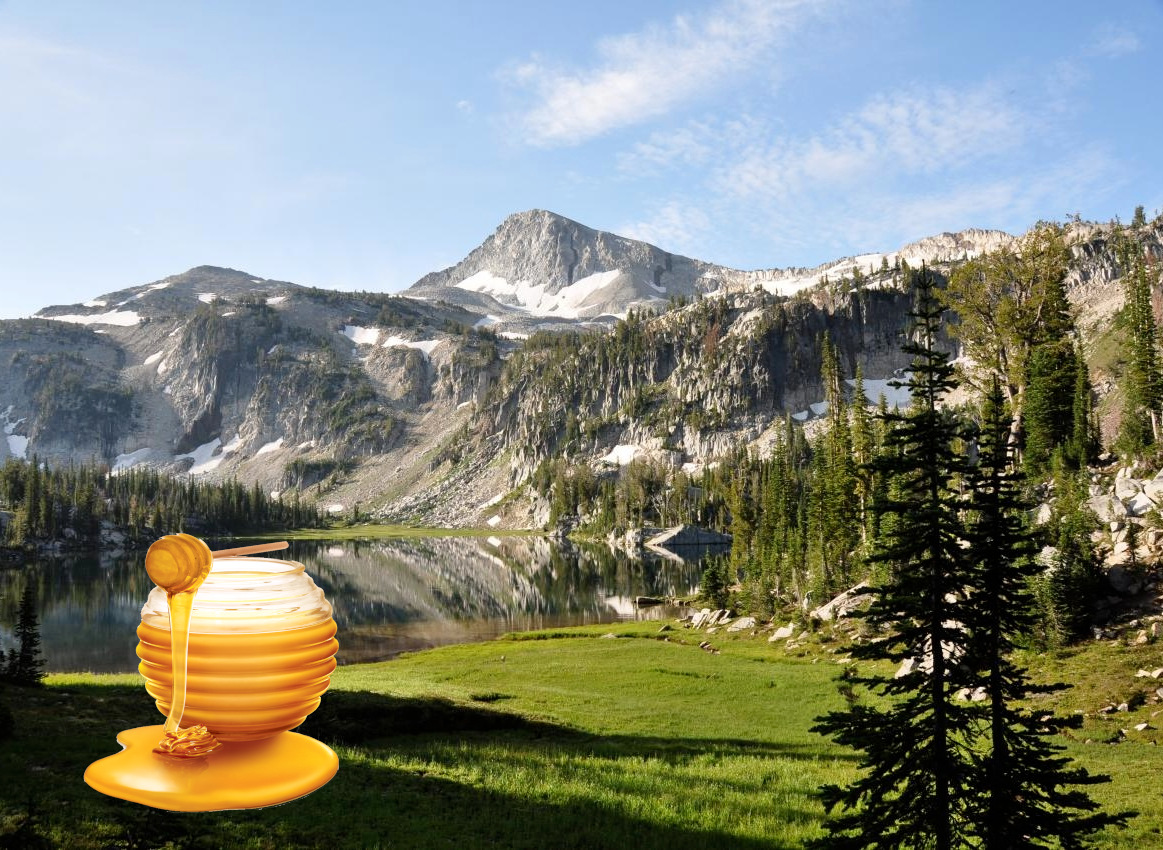
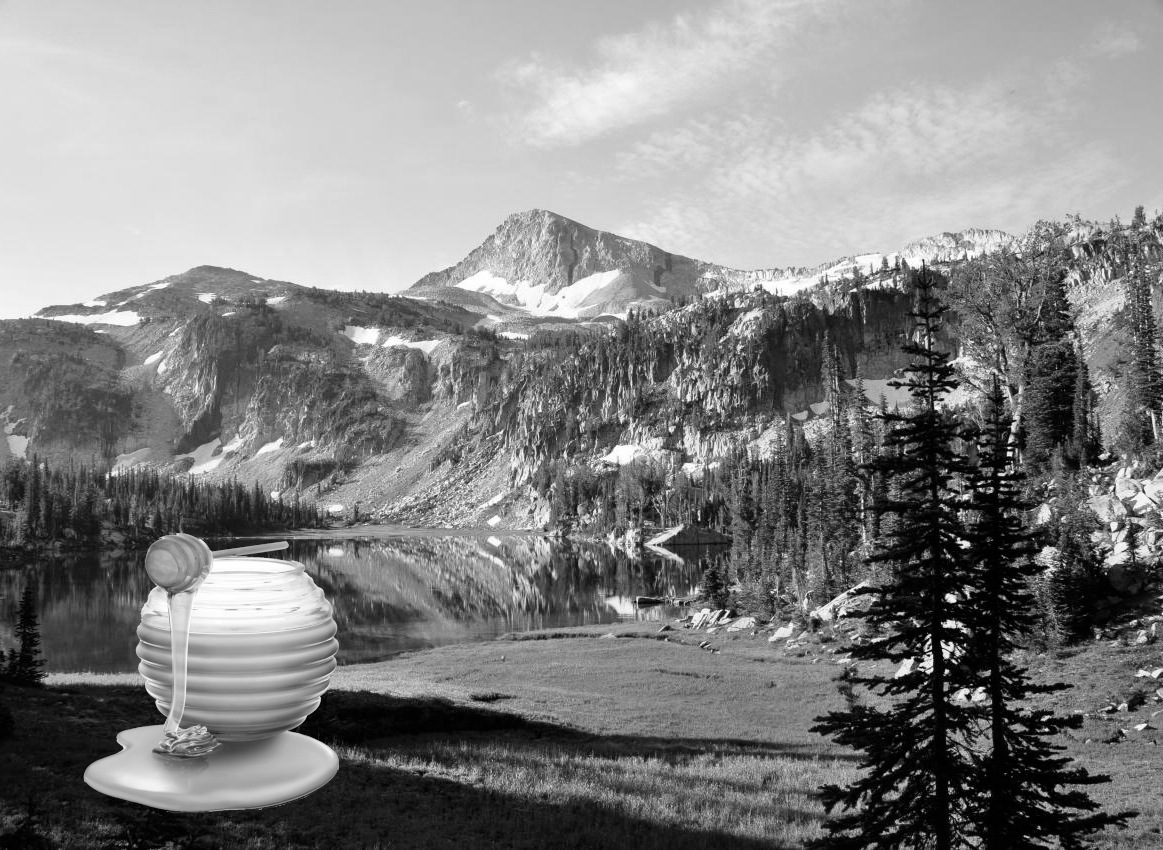
made it black and white

diff --git a/style.css b/style.css
@@ -1,0 +1,9 @@
+body{
+	background-color: black;
+	color: white;
+}
+h1{
+	color: white;
+	font-size: 8px;
+	font-family: "Courier";
+}

diff --git a/index.php b/index.php
@@ -5,7 +5,28 @@
 <body>
 
 
-<h1>LIGMA</h1>
+<h1>&nbsp;&nbsp;&nbsp;&nbsp;&nbsp;&nbsp;&nbsp;&nbsp;&nbsp;&nbsp;_____&nbsp;&nbsp;&nbsp;&nbsp;&nbsp;&nbsp;&nbsp;&nbsp;&nbsp;&nbsp;&nbsp;&nbsp;_____&nbsp;&nbsp;&nbsp;&nbsp;&nbsp;&nbsp;&nbsp;&nbsp;&nbsp;&nbsp;&nbsp;&nbsp;&nbsp;&nbsp;&nbsp;&nbsp;&nbsp;&nbsp;&nbsp;&nbsp;_____&nbsp;&nbsp;&nbsp;&nbsp;&nbsp;&nbsp;&nbsp;&nbsp;&nbsp;&nbsp;&nbsp;&nbsp;&nbsp;&nbsp;&nbsp;&nbsp;&nbsp;&nbsp;&nbsp;&nbsp;_____&nbsp;&nbsp;&nbsp;&nbsp;&nbsp;&nbsp;&nbsp;&nbsp;&nbsp;&nbsp;&nbsp;&nbsp;&nbsp;&nbsp;&nbsp;&nbsp;&nbsp;&nbsp;&nbsp;&nbsp;_____&nbsp;&nbsp;&nbsp;&nbsp;&nbsp;&nbsp;&nbsp;&nbsp;&nbsp;&nbsp;<br/>
+&nbsp;&nbsp;&nbsp;&nbsp;&nbsp;&nbsp;&nbsp;&nbsp;&nbsp;/\&nbsp;&nbsp;&nbsp;&nbsp;\&nbsp;&nbsp;&nbsp;&nbsp;&nbsp;&nbsp;&nbsp;&nbsp;&nbsp;&nbsp;/\&nbsp;&nbsp;&nbsp;&nbsp;\&nbsp;&nbsp;&nbsp;&nbsp;&nbsp;&nbsp;&nbsp;&nbsp;&nbsp;&nbsp;&nbsp;&nbsp;&nbsp;&nbsp;&nbsp;&nbsp;&nbsp;&nbsp;/\&nbsp;&nbsp;&nbsp;&nbsp;\&nbsp;&nbsp;&nbsp;&nbsp;&nbsp;&nbsp;&nbsp;&nbsp;&nbsp;&nbsp;&nbsp;&nbsp;&nbsp;&nbsp;&nbsp;&nbsp;&nbsp;&nbsp;/\&nbsp;&nbsp;&nbsp;&nbsp;\&nbsp;&nbsp;&nbsp;&nbsp;&nbsp;&nbsp;&nbsp;&nbsp;&nbsp;&nbsp;&nbsp;&nbsp;&nbsp;&nbsp;&nbsp;&nbsp;&nbsp;&nbsp;/\&nbsp;&nbsp;&nbsp;&nbsp;\&nbsp;&nbsp;&nbsp;&nbsp;&nbsp;&nbsp;&nbsp;&nbsp;&nbsp;<br/>
+&nbsp;&nbsp;&nbsp;&nbsp;&nbsp;&nbsp;&nbsp;&nbsp;/::\____\&nbsp;&nbsp;&nbsp;&nbsp;&nbsp;&nbsp;&nbsp;&nbsp;/::\&nbsp;&nbsp;&nbsp;&nbsp;\&nbsp;&nbsp;&nbsp;&nbsp;&nbsp;&nbsp;&nbsp;&nbsp;&nbsp;&nbsp;&nbsp;&nbsp;&nbsp;&nbsp;&nbsp;&nbsp;/::\&nbsp;&nbsp;&nbsp;&nbsp;\&nbsp;&nbsp;&nbsp;&nbsp;&nbsp;&nbsp;&nbsp;&nbsp;&nbsp;&nbsp;&nbsp;&nbsp;&nbsp;&nbsp;&nbsp;&nbsp;/::\____\&nbsp;&nbsp;&nbsp;&nbsp;&nbsp;&nbsp;&nbsp;&nbsp;&nbsp;&nbsp;&nbsp;&nbsp;&nbsp;&nbsp;&nbsp;&nbsp;/::\&nbsp;&nbsp;&nbsp;&nbsp;\&nbsp;&nbsp;&nbsp;&nbsp;&nbsp;&nbsp;&nbsp;&nbsp;<br/>
+&nbsp;&nbsp;&nbsp;&nbsp;&nbsp;&nbsp;&nbsp;/:::/&nbsp;&nbsp;&nbsp;&nbsp;/&nbsp;&nbsp;&nbsp;&nbsp;&nbsp;&nbsp;&nbsp;&nbsp;\:::\&nbsp;&nbsp;&nbsp;&nbsp;\&nbsp;&nbsp;&nbsp;&nbsp;&nbsp;&nbsp;&nbsp;&nbsp;&nbsp;&nbsp;&nbsp;&nbsp;&nbsp;&nbsp;/::::\&nbsp;&nbsp;&nbsp;&nbsp;\&nbsp;&nbsp;&nbsp;&nbsp;&nbsp;&nbsp;&nbsp;&nbsp;&nbsp;&nbsp;&nbsp;&nbsp;&nbsp;&nbsp;/::::|&nbsp;&nbsp;&nbsp;|&nbsp;&nbsp;&nbsp;&nbsp;&nbsp;&nbsp;&nbsp;&nbsp;&nbsp;&nbsp;&nbsp;&nbsp;&nbsp;&nbsp;&nbsp;/::::\&nbsp;&nbsp;&nbsp;&nbsp;\&nbsp;&nbsp;&nbsp;&nbsp;&nbsp;&nbsp;&nbsp;<br/>
+&nbsp;&nbsp;&nbsp;&nbsp;&nbsp;&nbsp;/:::/&nbsp;&nbsp;&nbsp;&nbsp;/&nbsp;&nbsp;&nbsp;&nbsp;&nbsp;&nbsp;&nbsp;&nbsp;&nbsp;&nbsp;\:::\&nbsp;&nbsp;&nbsp;&nbsp;\&nbsp;&nbsp;&nbsp;&nbsp;&nbsp;&nbsp;&nbsp;&nbsp;&nbsp;&nbsp;&nbsp;&nbsp;/::::::\&nbsp;&nbsp;&nbsp;&nbsp;\&nbsp;&nbsp;&nbsp;&nbsp;&nbsp;&nbsp;&nbsp;&nbsp;&nbsp;&nbsp;&nbsp;&nbsp;/:::::|&nbsp;&nbsp;&nbsp;|&nbsp;&nbsp;&nbsp;&nbsp;&nbsp;&nbsp;&nbsp;&nbsp;&nbsp;&nbsp;&nbsp;&nbsp;&nbsp;&nbsp;/::::::\&nbsp;&nbsp;&nbsp;&nbsp;\&nbsp;&nbsp;&nbsp;&nbsp;&nbsp;&nbsp;<br/>
+&nbsp;&nbsp;&nbsp;&nbsp;&nbsp;/:::/&nbsp;&nbsp;&nbsp;&nbsp;/&nbsp;&nbsp;&nbsp;&nbsp;&nbsp;&nbsp;&nbsp;&nbsp;&nbsp;&nbsp;&nbsp;&nbsp;\:::\&nbsp;&nbsp;&nbsp;&nbsp;\&nbsp;&nbsp;&nbsp;&nbsp;&nbsp;&nbsp;&nbsp;&nbsp;&nbsp;&nbsp;/:::/\:::\&nbsp;&nbsp;&nbsp;&nbsp;\&nbsp;&nbsp;&nbsp;&nbsp;&nbsp;&nbsp;&nbsp;&nbsp;&nbsp;&nbsp;/::::::|&nbsp;&nbsp;&nbsp;|&nbsp;&nbsp;&nbsp;&nbsp;&nbsp;&nbsp;&nbsp;&nbsp;&nbsp;&nbsp;&nbsp;&nbsp;&nbsp;/:::/\:::\&nbsp;&nbsp;&nbsp;&nbsp;\&nbsp;&nbsp;&nbsp;&nbsp;&nbsp;<br/>
+&nbsp;&nbsp;&nbsp;&nbsp;/:::/&nbsp;&nbsp;&nbsp;&nbsp;/&nbsp;&nbsp;&nbsp;&nbsp;&nbsp;&nbsp;&nbsp;&nbsp;&nbsp;&nbsp;&nbsp;&nbsp;&nbsp;&nbsp;\:::\&nbsp;&nbsp;&nbsp;&nbsp;\&nbsp;&nbsp;&nbsp;&nbsp;&nbsp;&nbsp;&nbsp;&nbsp;/:::/&nbsp;&nbsp;\:::\&nbsp;&nbsp;&nbsp;&nbsp;\&nbsp;&nbsp;&nbsp;&nbsp;&nbsp;&nbsp;&nbsp;&nbsp;/:::/|::|&nbsp;&nbsp;&nbsp;|&nbsp;&nbsp;&nbsp;&nbsp;&nbsp;&nbsp;&nbsp;&nbsp;&nbsp;&nbsp;&nbsp;&nbsp;/:::/__\:::\&nbsp;&nbsp;&nbsp;&nbsp;\&nbsp;&nbsp;&nbsp;&nbsp;<br/>
+&nbsp;&nbsp;&nbsp;/:::/&nbsp;&nbsp;&nbsp;&nbsp;/&nbsp;&nbsp;&nbsp;&nbsp;&nbsp;&nbsp;&nbsp;&nbsp;&nbsp;&nbsp;&nbsp;&nbsp;&nbsp;&nbsp;&nbsp;/::::\&nbsp;&nbsp;&nbsp;&nbsp;\&nbsp;&nbsp;&nbsp;&nbsp;&nbsp;&nbsp;/:::/&nbsp;&nbsp;&nbsp;&nbsp;\:::\&nbsp;&nbsp;&nbsp;&nbsp;\&nbsp;&nbsp;&nbsp;&nbsp;&nbsp;&nbsp;/:::/&nbsp;|::|&nbsp;&nbsp;&nbsp;|&nbsp;&nbsp;&nbsp;&nbsp;&nbsp;&nbsp;&nbsp;&nbsp;&nbsp;&nbsp;&nbsp;/::::\&nbsp;&nbsp;&nbsp;\:::\&nbsp;&nbsp;&nbsp;&nbsp;\&nbsp;&nbsp;&nbsp;<br/>
+&nbsp;&nbsp;/:::/&nbsp;&nbsp;&nbsp;&nbsp;/&nbsp;&nbsp;&nbsp;&nbsp;&nbsp;&nbsp;&nbsp;____&nbsp;&nbsp;&nbsp;&nbsp;/::::::\&nbsp;&nbsp;&nbsp;&nbsp;\&nbsp;&nbsp;&nbsp;&nbsp;/:::/&nbsp;&nbsp;&nbsp;&nbsp;/&nbsp;\:::\&nbsp;&nbsp;&nbsp;&nbsp;\&nbsp;&nbsp;&nbsp;&nbsp;/:::/&nbsp;&nbsp;|::|___|______&nbsp;&nbsp;&nbsp;&nbsp;/::::::\&nbsp;&nbsp;&nbsp;\:::\&nbsp;&nbsp;&nbsp;&nbsp;\&nbsp;&nbsp;<br/>
+&nbsp;/:::/&nbsp;&nbsp;&nbsp;&nbsp;/&nbsp;&nbsp;&nbsp;&nbsp;&nbsp;&nbsp;&nbsp;/\&nbsp;&nbsp;&nbsp;\&nbsp;&nbsp;/:::/\:::\&nbsp;&nbsp;&nbsp;&nbsp;\&nbsp;&nbsp;/:::/&nbsp;&nbsp;&nbsp;&nbsp;/&nbsp;&nbsp;&nbsp;\:::\&nbsp;___\&nbsp;&nbsp;/:::/&nbsp;&nbsp;&nbsp;|::::::::\&nbsp;&nbsp;&nbsp;&nbsp;\&nbsp;&nbsp;/:::/\:::\&nbsp;&nbsp;&nbsp;\:::\&nbsp;&nbsp;&nbsp;&nbsp;\&nbsp;<br/>
+/:::/____/&nbsp;&nbsp;&nbsp;&nbsp;&nbsp;&nbsp;&nbsp;/::\&nbsp;&nbsp;&nbsp;\/:::/&nbsp;&nbsp;\:::\____\/:::/____/&nbsp;&nbsp;___\:::|&nbsp;&nbsp;&nbsp;&nbsp;|/:::/&nbsp;&nbsp;&nbsp;&nbsp;|:::::::::\____\/:::/&nbsp;&nbsp;\:::\&nbsp;&nbsp;&nbsp;\:::\____\<br/>
+\:::\&nbsp;&nbsp;&nbsp;&nbsp;\&nbsp;&nbsp;&nbsp;&nbsp;&nbsp;&nbsp;&nbsp;\:::\&nbsp;&nbsp;/:::/&nbsp;&nbsp;&nbsp;&nbsp;\::/&nbsp;&nbsp;&nbsp;&nbsp;/\:::\&nbsp;&nbsp;&nbsp;&nbsp;\&nbsp;/\&nbsp;&nbsp;/:::|____|\::/&nbsp;&nbsp;&nbsp;&nbsp;/&nbsp;~~~~~/:::/&nbsp;&nbsp;&nbsp;&nbsp;/\::/&nbsp;&nbsp;&nbsp;&nbsp;\:::\&nbsp;&nbsp;/:::/&nbsp;&nbsp;&nbsp;&nbsp;/<br/>
+&nbsp;\:::\&nbsp;&nbsp;&nbsp;&nbsp;\&nbsp;&nbsp;&nbsp;&nbsp;&nbsp;&nbsp;&nbsp;\:::\/:::/&nbsp;&nbsp;&nbsp;&nbsp;/&nbsp;\/____/&nbsp;&nbsp;\:::\&nbsp;&nbsp;&nbsp;&nbsp;/::\&nbsp;\::/&nbsp;&nbsp;&nbsp;&nbsp;/&nbsp;&nbsp;\/____/&nbsp;&nbsp;&nbsp;&nbsp;&nbsp;&nbsp;/:::/&nbsp;&nbsp;&nbsp;&nbsp;/&nbsp;&nbsp;\/____/&nbsp;\:::\/:::/&nbsp;&nbsp;&nbsp;&nbsp;/&nbsp;<br/>
+&nbsp;&nbsp;\:::\&nbsp;&nbsp;&nbsp;&nbsp;\&nbsp;&nbsp;&nbsp;&nbsp;&nbsp;&nbsp;&nbsp;\::::::/&nbsp;&nbsp;&nbsp;&nbsp;/&nbsp;&nbsp;&nbsp;&nbsp;&nbsp;&nbsp;&nbsp;&nbsp;&nbsp;&nbsp;&nbsp;&nbsp;\:::\&nbsp;&nbsp;&nbsp;\:::\&nbsp;\/____/&nbsp;&nbsp;&nbsp;&nbsp;&nbsp;&nbsp;&nbsp;&nbsp;&nbsp;&nbsp;&nbsp;&nbsp;&nbsp;&nbsp;&nbsp;/:::/&nbsp;&nbsp;&nbsp;&nbsp;/&nbsp;&nbsp;&nbsp;&nbsp;&nbsp;&nbsp;&nbsp;&nbsp;&nbsp;&nbsp;&nbsp;&nbsp;\::::::/&nbsp;&nbsp;&nbsp;&nbsp;/&nbsp;&nbsp;<br/>
+&nbsp;&nbsp;&nbsp;\:::\&nbsp;&nbsp;&nbsp;&nbsp;\&nbsp;&nbsp;&nbsp;&nbsp;&nbsp;&nbsp;&nbsp;\::::/____/&nbsp;&nbsp;&nbsp;&nbsp;&nbsp;&nbsp;&nbsp;&nbsp;&nbsp;&nbsp;&nbsp;&nbsp;&nbsp;&nbsp;\:::\&nbsp;&nbsp;&nbsp;\:::\____\&nbsp;&nbsp;&nbsp;&nbsp;&nbsp;&nbsp;&nbsp;&nbsp;&nbsp;&nbsp;&nbsp;&nbsp;&nbsp;&nbsp;&nbsp;&nbsp;/:::/&nbsp;&nbsp;&nbsp;&nbsp;/&nbsp;&nbsp;&nbsp;&nbsp;&nbsp;&nbsp;&nbsp;&nbsp;&nbsp;&nbsp;&nbsp;&nbsp;&nbsp;&nbsp;\::::/&nbsp;&nbsp;&nbsp;&nbsp;/&nbsp;&nbsp;&nbsp;<br/>
+&nbsp;&nbsp;&nbsp;&nbsp;\:::\&nbsp;&nbsp;&nbsp;&nbsp;\&nbsp;&nbsp;&nbsp;&nbsp;&nbsp;&nbsp;&nbsp;\:::\&nbsp;&nbsp;&nbsp;&nbsp;\&nbsp;&nbsp;&nbsp;&nbsp;&nbsp;&nbsp;&nbsp;&nbsp;&nbsp;&nbsp;&nbsp;&nbsp;&nbsp;&nbsp;&nbsp;\:::\&nbsp;&nbsp;/:::/&nbsp;&nbsp;&nbsp;&nbsp;/&nbsp;&nbsp;&nbsp;&nbsp;&nbsp;&nbsp;&nbsp;&nbsp;&nbsp;&nbsp;&nbsp;&nbsp;&nbsp;&nbsp;&nbsp;/:::/&nbsp;&nbsp;&nbsp;&nbsp;/&nbsp;&nbsp;&nbsp;&nbsp;&nbsp;&nbsp;&nbsp;&nbsp;&nbsp;&nbsp;&nbsp;&nbsp;&nbsp;&nbsp;&nbsp;/:::/&nbsp;&nbsp;&nbsp;&nbsp;/&nbsp;&nbsp;&nbsp;&nbsp;<br/>
+&nbsp;&nbsp;&nbsp;&nbsp;&nbsp;\:::\&nbsp;&nbsp;&nbsp;&nbsp;\&nbsp;&nbsp;&nbsp;&nbsp;&nbsp;&nbsp;&nbsp;\:::\&nbsp;&nbsp;&nbsp;&nbsp;\&nbsp;&nbsp;&nbsp;&nbsp;&nbsp;&nbsp;&nbsp;&nbsp;&nbsp;&nbsp;&nbsp;&nbsp;&nbsp;&nbsp;&nbsp;\:::\/:::/&nbsp;&nbsp;&nbsp;&nbsp;/&nbsp;&nbsp;&nbsp;&nbsp;&nbsp;&nbsp;&nbsp;&nbsp;&nbsp;&nbsp;&nbsp;&nbsp;&nbsp;&nbsp;&nbsp;/:::/&nbsp;&nbsp;&nbsp;&nbsp;/&nbsp;&nbsp;&nbsp;&nbsp;&nbsp;&nbsp;&nbsp;&nbsp;&nbsp;&nbsp;&nbsp;&nbsp;&nbsp;&nbsp;&nbsp;/:::/&nbsp;&nbsp;&nbsp;&nbsp;/&nbsp;&nbsp;&nbsp;&nbsp;&nbsp;<br/>
+&nbsp;&nbsp;&nbsp;&nbsp;&nbsp;&nbsp;\:::\&nbsp;&nbsp;&nbsp;&nbsp;\&nbsp;&nbsp;&nbsp;&nbsp;&nbsp;&nbsp;&nbsp;\:::\&nbsp;&nbsp;&nbsp;&nbsp;\&nbsp;&nbsp;&nbsp;&nbsp;&nbsp;&nbsp;&nbsp;&nbsp;&nbsp;&nbsp;&nbsp;&nbsp;&nbsp;&nbsp;&nbsp;\::::::/&nbsp;&nbsp;&nbsp;&nbsp;/&nbsp;&nbsp;&nbsp;&nbsp;&nbsp;&nbsp;&nbsp;&nbsp;&nbsp;&nbsp;&nbsp;&nbsp;&nbsp;&nbsp;&nbsp;/:::/&nbsp;&nbsp;&nbsp;&nbsp;/&nbsp;&nbsp;&nbsp;&nbsp;&nbsp;&nbsp;&nbsp;&nbsp;&nbsp;&nbsp;&nbsp;&nbsp;&nbsp;&nbsp;&nbsp;/:::/&nbsp;&nbsp;&nbsp;&nbsp;/&nbsp;&nbsp;&nbsp;&nbsp;&nbsp;&nbsp;<br/>
+&nbsp;&nbsp;&nbsp;&nbsp;&nbsp;&nbsp;&nbsp;\:::\____\&nbsp;&nbsp;&nbsp;&nbsp;&nbsp;&nbsp;&nbsp;\:::\____\&nbsp;&nbsp;&nbsp;&nbsp;&nbsp;&nbsp;&nbsp;&nbsp;&nbsp;&nbsp;&nbsp;&nbsp;&nbsp;&nbsp;&nbsp;\::::/&nbsp;&nbsp;&nbsp;&nbsp;/&nbsp;&nbsp;&nbsp;&nbsp;&nbsp;&nbsp;&nbsp;&nbsp;&nbsp;&nbsp;&nbsp;&nbsp;&nbsp;&nbsp;&nbsp;/:::/&nbsp;&nbsp;&nbsp;&nbsp;/&nbsp;&nbsp;&nbsp;&nbsp;&nbsp;&nbsp;&nbsp;&nbsp;&nbsp;&nbsp;&nbsp;&nbsp;&nbsp;&nbsp;&nbsp;/:::/&nbsp;&nbsp;&nbsp;&nbsp;/&nbsp;&nbsp;&nbsp;&nbsp;&nbsp;&nbsp;&nbsp;<br/>
+&nbsp;&nbsp;&nbsp;&nbsp;&nbsp;&nbsp;&nbsp;&nbsp;\::/&nbsp;&nbsp;&nbsp;&nbsp;/&nbsp;&nbsp;&nbsp;&nbsp;&nbsp;&nbsp;&nbsp;&nbsp;\::/&nbsp;&nbsp;&nbsp;&nbsp;/&nbsp;&nbsp;&nbsp;&nbsp;&nbsp;&nbsp;&nbsp;&nbsp;&nbsp;&nbsp;&nbsp;&nbsp;&nbsp;&nbsp;&nbsp;&nbsp;\::/____/&nbsp;&nbsp;&nbsp;&nbsp;&nbsp;&nbsp;&nbsp;&nbsp;&nbsp;&nbsp;&nbsp;&nbsp;&nbsp;&nbsp;&nbsp;&nbsp;\::/&nbsp;&nbsp;&nbsp;&nbsp;/&nbsp;&nbsp;&nbsp;&nbsp;&nbsp;&nbsp;&nbsp;&nbsp;&nbsp;&nbsp;&nbsp;&nbsp;&nbsp;&nbsp;&nbsp;&nbsp;\::/&nbsp;&nbsp;&nbsp;&nbsp;/&nbsp;&nbsp;&nbsp;&nbsp;&nbsp;&nbsp;&nbsp;&nbsp;<br/>
+&nbsp;&nbsp;&nbsp;&nbsp;&nbsp;&nbsp;&nbsp;&nbsp;&nbsp;\/____/&nbsp;&nbsp;&nbsp;&nbsp;&nbsp;&nbsp;&nbsp;&nbsp;&nbsp;&nbsp;\/____/&nbsp;&nbsp;&nbsp;&nbsp;&nbsp;&nbsp;&nbsp;&nbsp;&nbsp;&nbsp;&nbsp;&nbsp;&nbsp;&nbsp;&nbsp;&nbsp;&nbsp;&nbsp;&nbsp;&nbsp;&nbsp;&nbsp;&nbsp;&nbsp;&nbsp;&nbsp;&nbsp;&nbsp;&nbsp;&nbsp;&nbsp;&nbsp;&nbsp;&nbsp;&nbsp;&nbsp;&nbsp;&nbsp;&nbsp;&nbsp;&nbsp;&nbsp;&nbsp;\/____/&nbsp;&nbsp;&nbsp;&nbsp;&nbsp;&nbsp;&nbsp;&nbsp;&nbsp;&nbsp;&nbsp;&nbsp;&nbsp;&nbsp;&nbsp;&nbsp;&nbsp;&nbsp;\/____/&nbsp;&nbsp;&nbsp;&nbsp;&nbsp;&nbsp;&nbsp;&nbsp;&nbsp;<br/>
+                                                                                                                     </h1>
 <p>Welcome to the honey pot.</p>
 <img src="wilderness.jpg" alt="wilderness" usemap="#wildernessmap"/>
 
